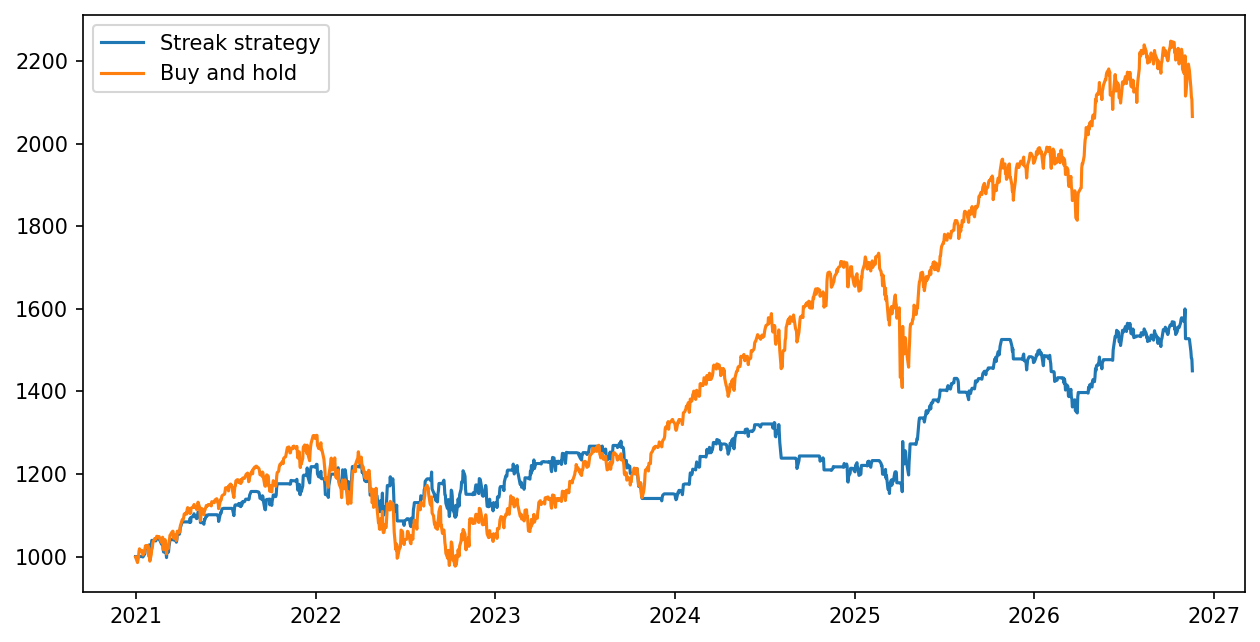
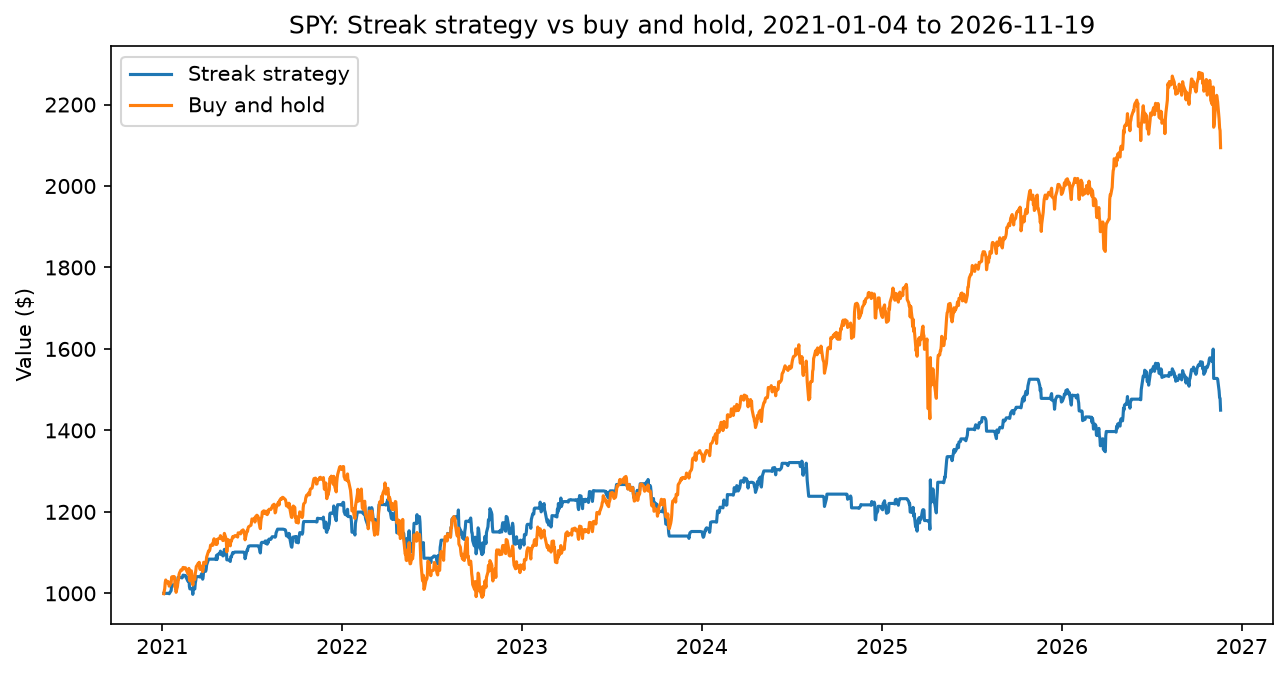
updated README

Changed region(s): [[0.0, 0.0, 0.9905, 0.9969], [0.9595, 0.0, 0.9905, 0.0312]]

diff --git a/run_backtest.py b/run_backtest.py
@@ -54,7 +54,7 @@ def main():
     fig, ax = plt.subplots(figsize=(10, 5))
     ax.plot(equity.index, equity, label="Streak strategy")
     ax.plot(bench.index, bench, label="Buy and hold")
-    ax.set_title(f"{config.SYMBOL}: Streak strategy vs buy and hold",f"{test.index[0].date()} to {test.index[-1].date()}")                            # e.g. what, which ticker, which period
+    ax.set_title(f"{config.SYMBOL}: Streak strategy vs buy and hold, {test.index[0].date()} to {test.index[-1].date()}")                            # e.g. what, which ticker, which period
     ax.set_ylabel("Value ($)")                           # SPY trades in dollars
     ax.legend()
     fig.savefig(config.RESULTS_DIR / "equity_test.png", dpi=150, bbox_inches="tight")

diff --git a/README.md b/README.md
@@ -1,10 +1,10 @@
 # sandpanalysis: S&P 500 data pipeline and backtest
 
-[One or two sentences in your own words: what this project does and why you built it.]
+This project analyses S&P 500 data to investigate whether buying after a losing streak beats the buy-and-hold method, using a test period of 1478 trading days of data. 
 
 ## Origins
 
-[Two or three sentences: you started Dionysus in Year 12 (2023) by scraping S&P 500 prices into Excel and testing whether losing streaks are followed by a rebound. Say what this version fixes.]
+My IB project involved scraping S&P 500 prices into an Excel spreadsheet and analysing whether losing streaks are followed by a rebound. This project uses the same idea to compare this method with a buy-and-hold strategy. In addition, it now uses the Tiingo API instead of scraping, and includes data quality checks.
 
 ## What it does
 
@@ -16,37 +16,34 @@
 
 ## Results
 
-Test period: [start] to [end]
+Test period: 4 Jan 2021 to 19 Nov 2026
 
 | | Streak strategy | Buy and hold |
 |---|---|---|
-| Total return | [ ] | [ ] |
-| Annualised return | [ ] | [ ] |
-| Maximum drawdown | [ ] | [ ] |
-| Number of trades | [ ] | 1 |
+| Total return | +45.0% | +109.6% |
+| Annualised return | 6.5% | 13.5% |
+| Maximum drawdown | -13.0% | -24.5% |
+| Number of trades | 219 | 1 |
 
 ![Equity curves on the test period](results/equity_test.png)
 
-[What you found, in two or three sentences.]
+Generally, buy-and-hold resulted in a higher return, about twice that of the streak strategy. However, the largest difference is in the maximum drawdown, which is better for the strategy. A key consideration is the cost of making a larger number of trades, as the `COST_PER_TRADE` parameter is set to 0.001 (0.1%). Changing this cost to 0 raises the return to 80%, which is a significant difference. 
 
 ## Data checks
 
-[What `find_problems` found on the real data, and what you did about it.]
+The data checks looked at whether the dates were in the right order, whether there were any duplicated rows, whether any cells for prices were missing, making sure prices were positive numbers, whether the daily change in the adjusted close was smaller than 20%, and making sure the rows had no more than a 5-day gap between trading days. 
 
 ## Assumptions
 
-- Prices: adjusted close, because [your reason].
+- Prices: adjusted close was used because it better reflects what real investors earned, by taking dividends and stock splits into account. 
 - Trades happen at the close of the day the signal appears.
-- Costs: [x]% of the trade value on every buy and sell, because [your reason].
-- Stop-loss: [x]% below the buy price.
-
-## Limitations
-
-[Your words. For example: one ticker, one test period, simple cost model.]
+- Costs: 0.1% of the trade value on every buy and sell, as it is a reasonable cost charged to a retail investor.
+- Stop-loss: 2% below the buy price.
+- Limitations: only one ticker was used, and one test period was chosen. This model also doesn't take into account any taxes involved in trading. `run_fetch.py` also has to be run after the market closes to keep the rows complete. 
 
 ## Next steps
 
-[ ]
+This model can be adjusted to analyse markets in several time intervals, and more trading methods can be compared alongside the buy-and-hold method already tested. 
 
 ## Run it yourself
 
